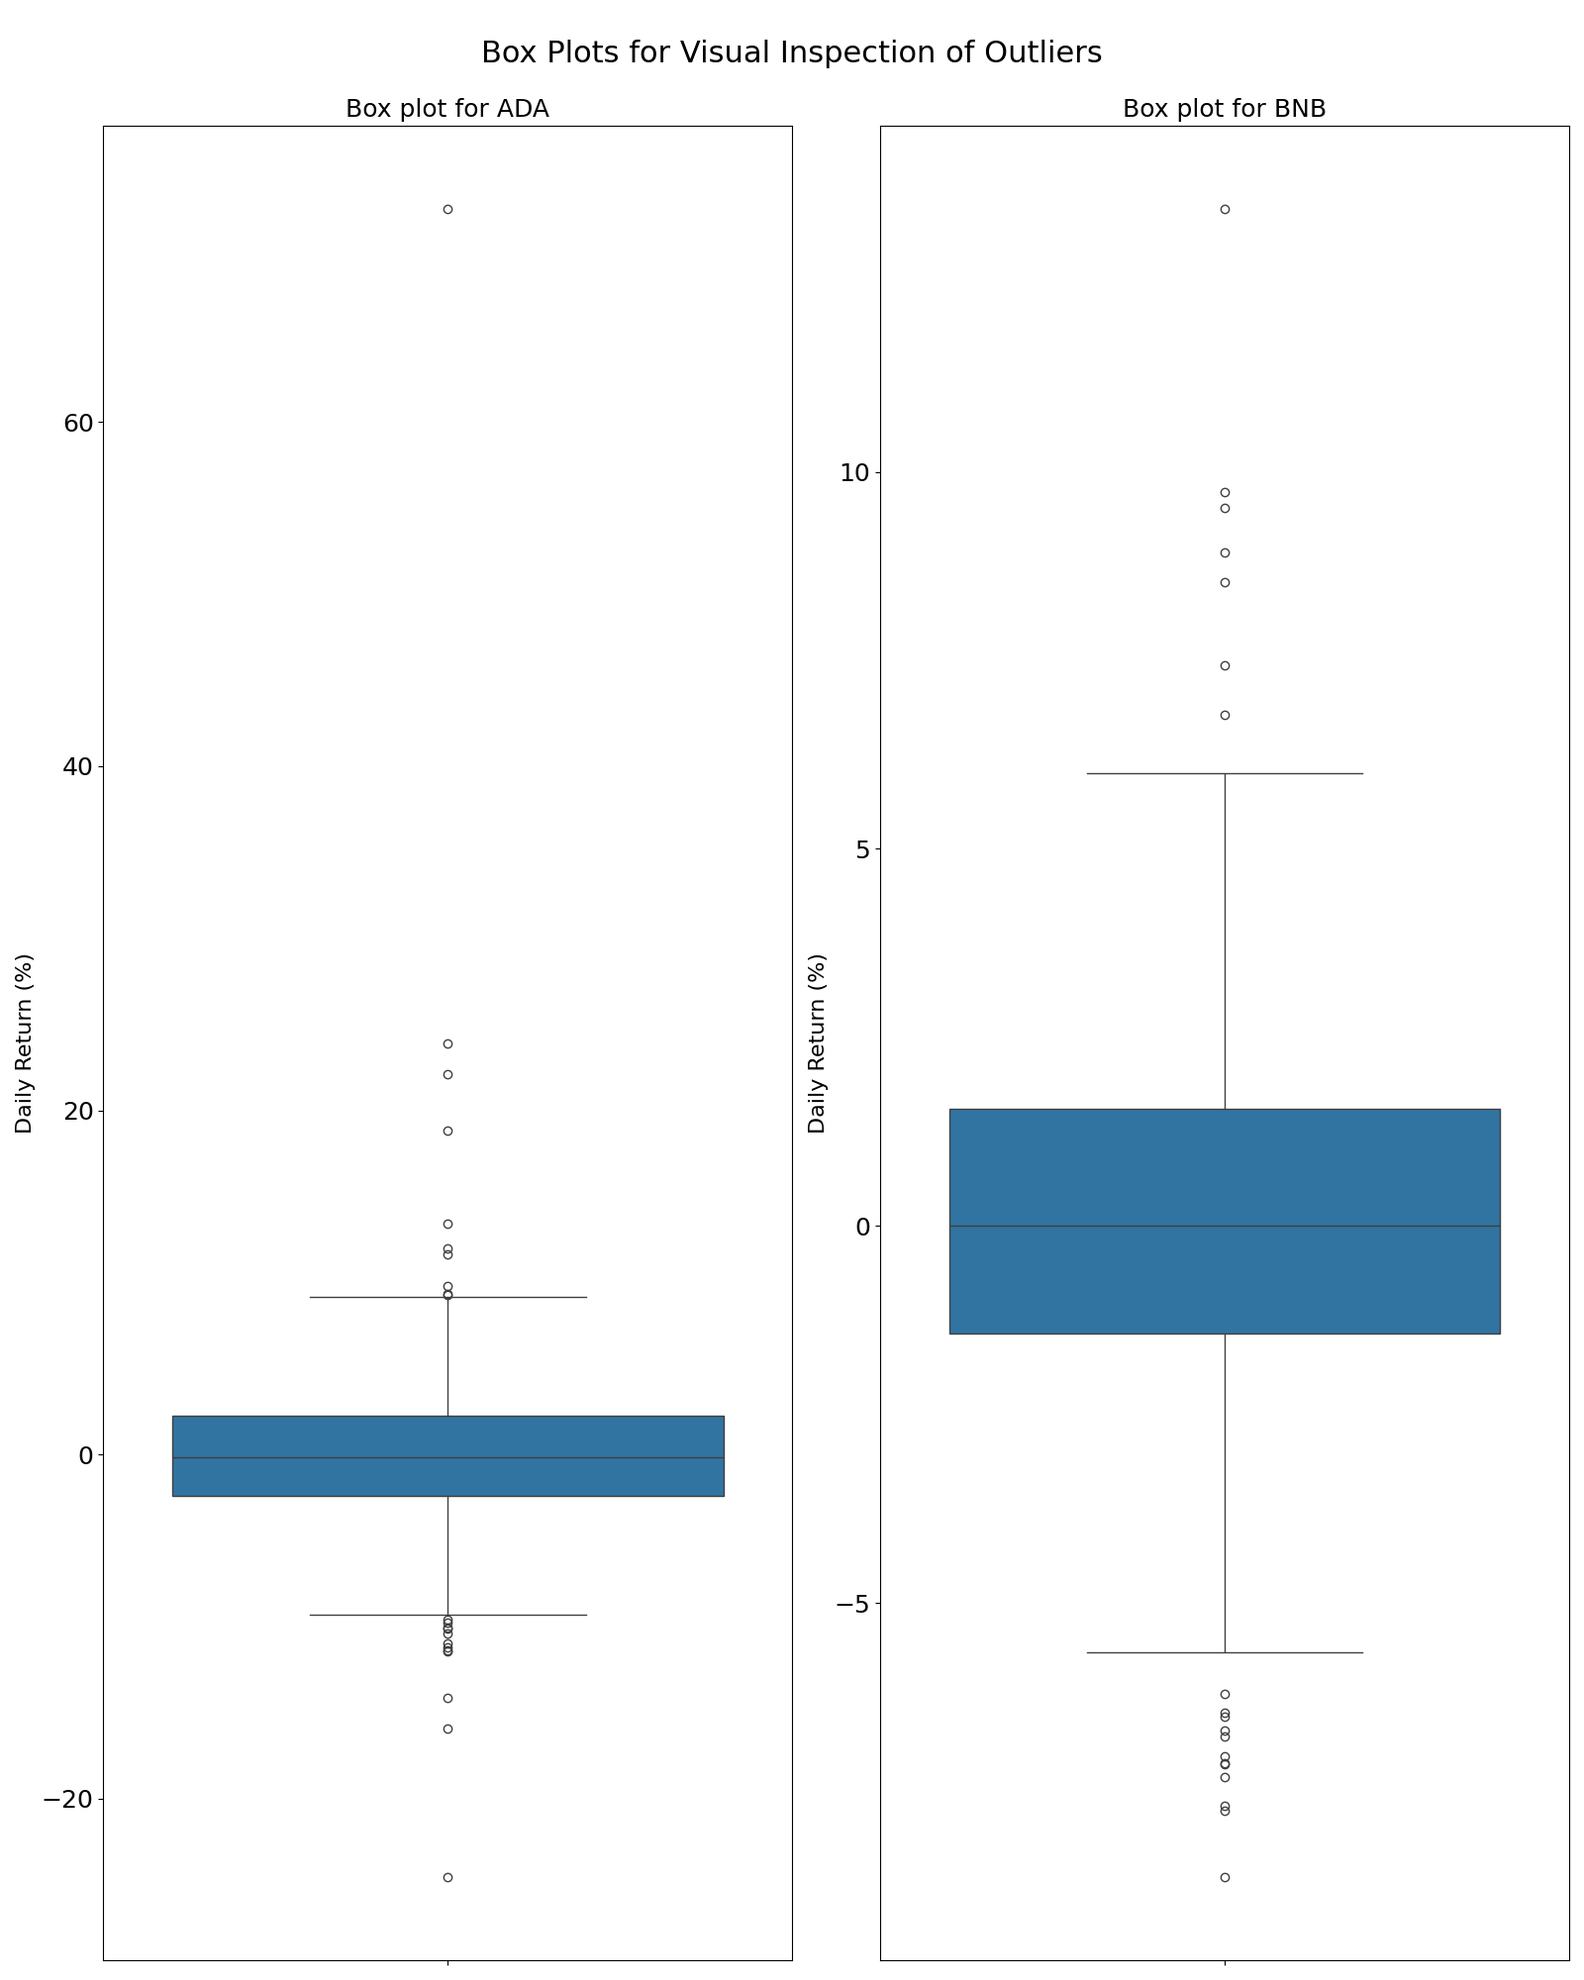
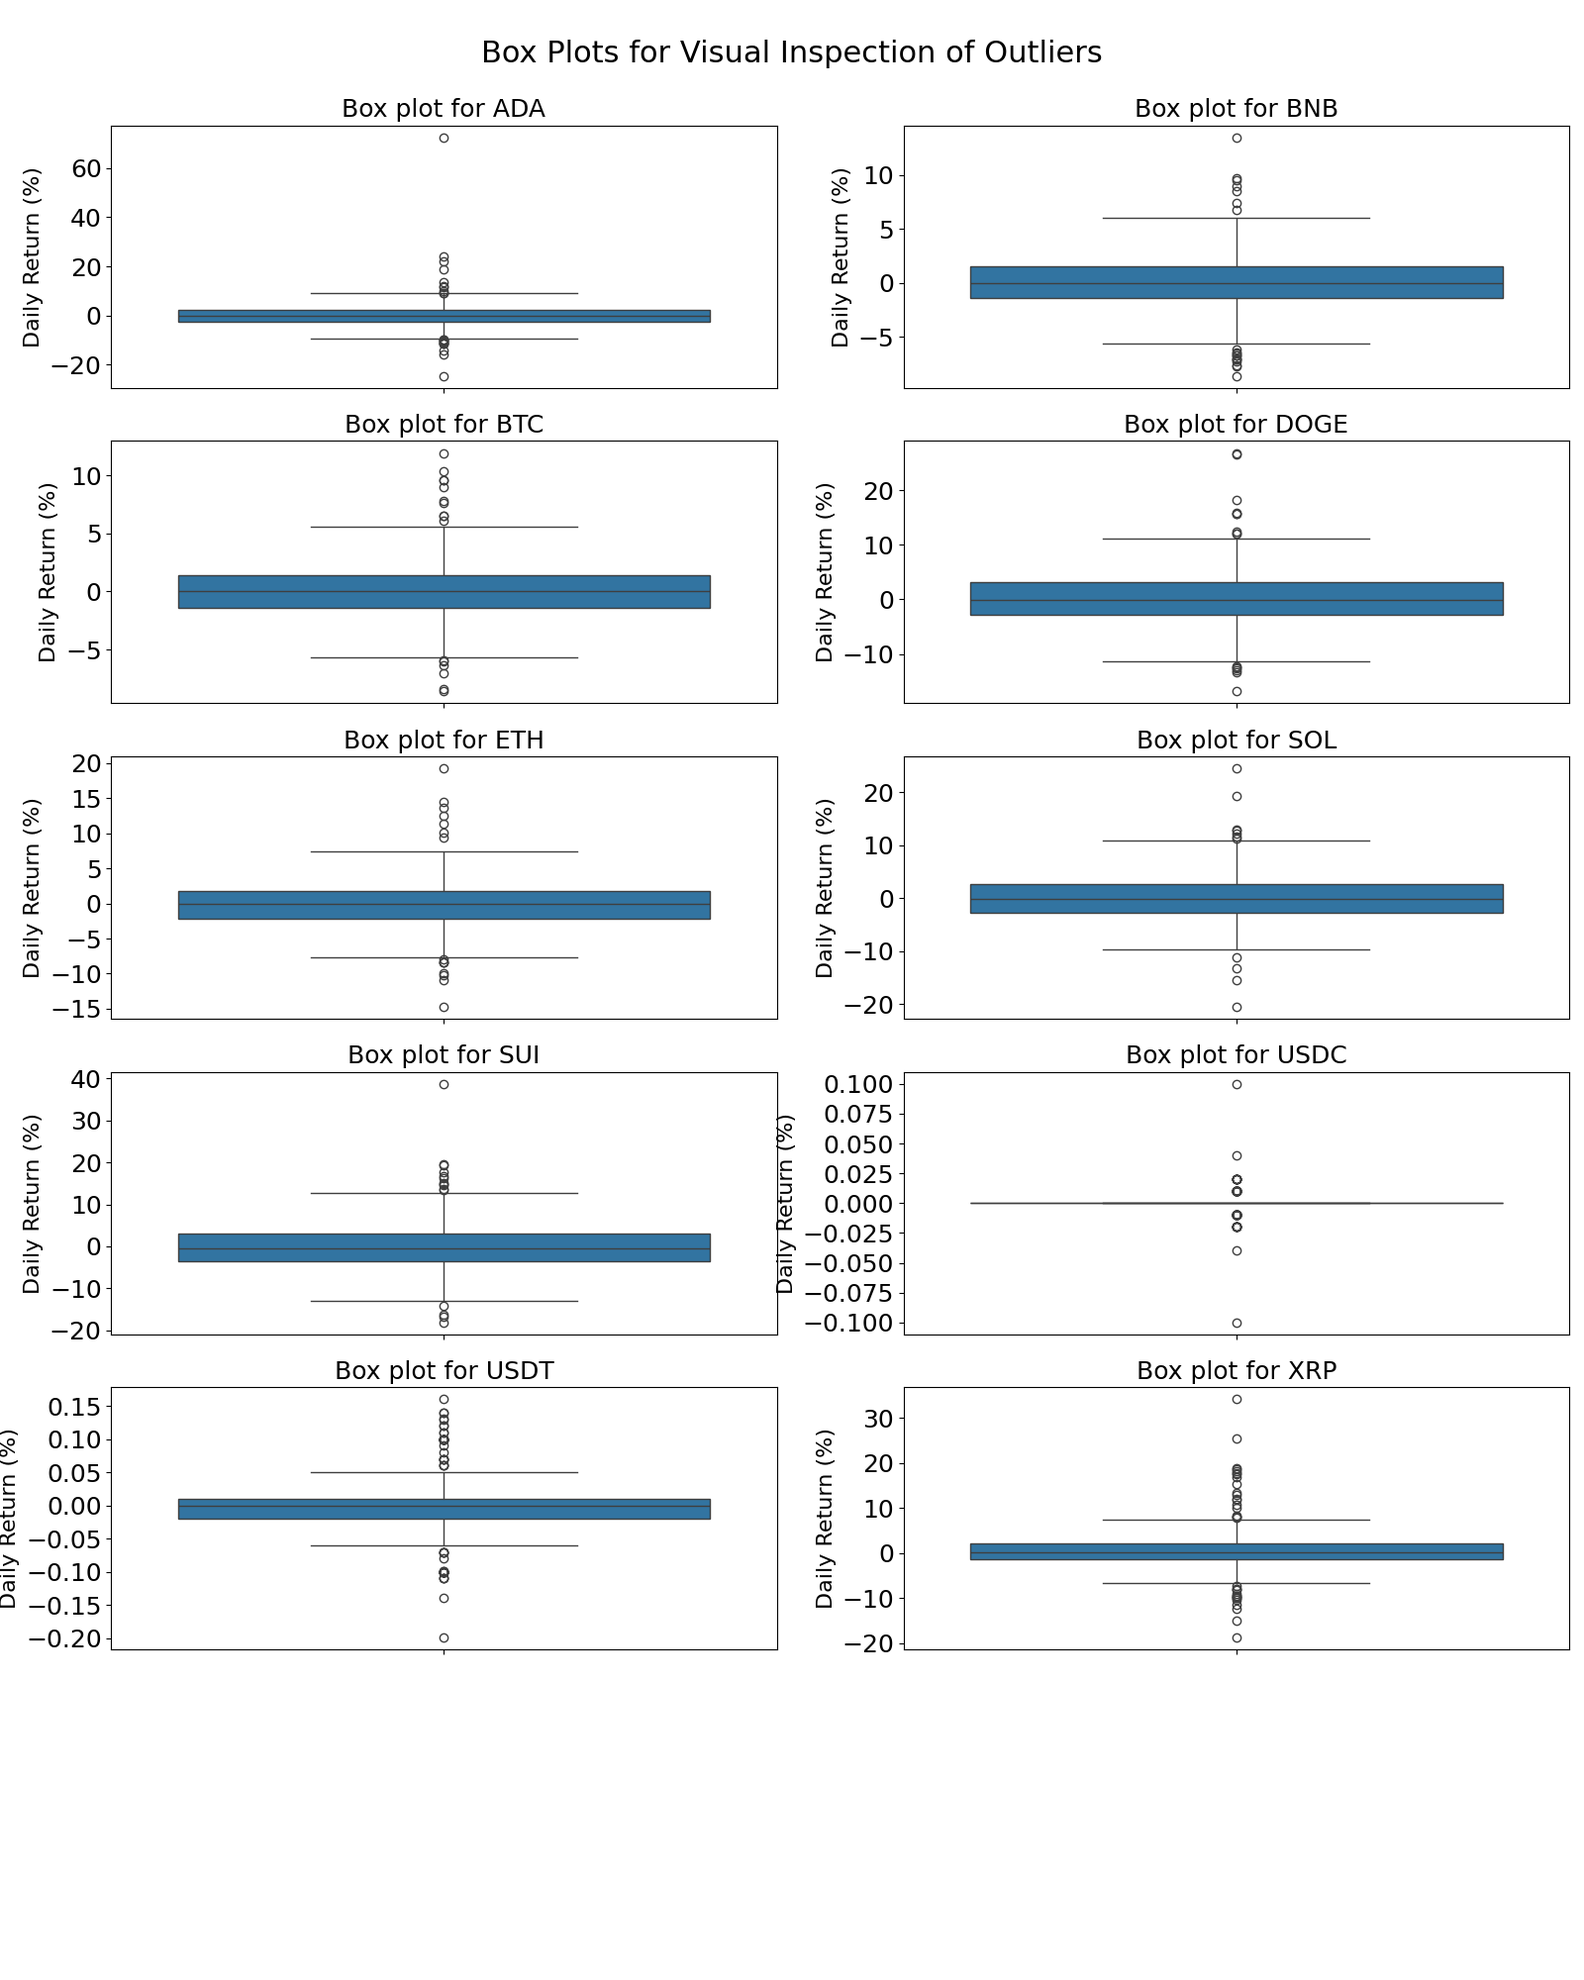
update station2

diff --git a/src/station3_data_modelling.py b/src/station3_data_modelling.py
@@ -1,0 +1,230 @@
+import numpy as np
+import pandas as pd
+import matplotlib.pyplot as plt
+from scipy.optimize import minimize
+import os
+
+df = pd.read_csv(r'/Users/Johnny/Desktop/crypto-portfolio-data-engineering-project/data/station2/stage_2_crypto_data.csv')
+df['date'] = pd.to_datetime(df['date'])
+df = df.set_index(['date'])
+exportpath = r'/Users/Johnny/Desktop/crypto-portfolio-data-engineering-project/data/station3'
+
+# Function to plot the mean-variance efficient frontier
+def Station_3_Model_Design_Basic(returns_data,exportpath, ra = 0.1 ):
+    num_assets = len(returns_data.iloc[1,])
+    # Calculate mean returns and covariance matrix
+    returns_data = returns_data*100
+    mean_returns = (returns_data).mean()
+    cov_matrix = returns_data.cov()  
+
+    # Define function to calculate portfolio performance
+    def portfolio_performance(weights, mean_returns, cov_matrix):
+        returns = np.dot(weights, mean_returns)
+        std = np.sqrt(np.dot(weights.T, np.dot(cov_matrix, weights)))
+        return returns, std
+
+    # Number of portfolios to simulate
+    num_portfolios = 25000
+    results = np.zeros((3, num_portfolios))
+    weights_record = []
+
+    # Run simulations
+    num_assets = len(mean_returns)
+    for i in range(num_portfolios):
+        weights = np.random.random(num_assets)
+        weights /= np.sum(weights)
+        returns, std = portfolio_performance(weights, mean_returns, cov_matrix)
+        results[0, i] = returns
+        results[1, i] = std
+        results[2, i] = results[0, i] / results[1, i]
+        weights_record.append(weights)
+
+    # Convert results array to DataFrame
+    results_frame = pd.DataFrame(results.T, columns=['Return', 'Standard Deviation', 'Sharpe Ratio'])
+
+    # Locate the portfolio with the highest Sharpe ratio
+    max_sharpe_idx = results_frame['Sharpe Ratio'].idxmax()
+    max_sharpe_portfolio = results_frame.loc[max_sharpe_idx]
+    max_sharpe_weights = weights_record[max_sharpe_idx]
+
+    # Locate the portfolio with the minimum standard deviation
+    min_vol_idx = results_frame['Standard Deviation'].idxmin()
+    min_vol_portfolio = results_frame.loc[min_vol_idx]
+    min_vol_weights = weights_record[min_vol_idx]
+    
+    
+    # Ooptim Functions #
+    def mean_variance(weights):
+        portfolio_return = np.dot(weights, mean_returns)
+        portfolio_volatility = np.sqrt(np.dot(weights.T, np.dot(cov_matrix, weights)))
+        return -(portfolio_return / portfolio_volatility)
+    
+    def minimum_variance(weights):
+        portfolio_volatility = np.sqrt(np.dot(weights.T, np.dot(cov_matrix, weights)))
+        return portfolio_volatility
+    
+    def mean_variance_risk_aversion(weights,ra=ra):
+        portfolio_return = np.dot(weights, mean_returns)
+        portfolio_volatility = (np.dot(weights.T, np.dot(cov_matrix, weights)))
+        return - (portfolio_return - ra/2 * portfolio_volatility)
+    
+    # Optional ##############
+    def risk_parity(weights):
+        portfolio_volatility = np.sqrt(np.dot(weights.T, np.dot(cov_matrix, weights)))
+        marginal_risk_contribution = np.dot(cov_matrix, weights) / portfolio_volatility
+        risk_contributions = weights * marginal_risk_contribution
+        risk_target = portfolio_volatility / num_assets
+        return np.sum((risk_contributions - risk_target) ** 2)
+    
+    def max_diversification(weights):
+        individual_volatilities = np.sqrt(np.diag(cov_matrix))
+        weighted_volatility = np.dot(weights, individual_volatilities)
+        portfolio_volatility = np.sqrt(np.dot(weights.T, np.dot(cov_matrix, weights)))
+        diversification_ratio = weighted_volatility / portfolio_volatility
+        return -diversification_ratio
+    #########################
+    
+    # Constraints and bounds
+    constraints = ({'type': 'eq', 'fun': lambda x: np.sum(x) - 1})
+    bounds = tuple((0, 1) for asset in range(num_assets))
+    
+    # Initial guess (equal weights)
+    initial_guess = num_assets * [1. / num_assets,]
+    
+    # Optimize for MVO
+    result = minimize(mean_variance, initial_guess, method='SLSQP', 
+                      bounds=bounds, constraints=constraints)
+    mvo_weights = np.round(result.x,3)
+    
+    rp_mvo, sigma_mvo = portfolio_performance(mvo_weights, mean_returns, cov_matrix)
+    sr_mvo            =  rp_mvo/sigma_mvo
+    
+    # Optimize for MV
+    result = minimize(minimum_variance, initial_guess, method='SLSQP', 
+                      bounds=bounds, constraints=constraints)
+    mv_weights =np.round( result.x , 3)
+    
+    rp_mv, sigma_mv = portfolio_performance(mv_weights, mean_returns, cov_matrix)
+    sr_mv           = rp_mv/sigma_mv
+    
+    # Optimize for MVO 
+    result = minimize(mean_variance_risk_aversion, initial_guess, method='SLSQP', 
+                      bounds=bounds, constraints=constraints)
+    mvrp_weights =np.round( result.x , 3)
+    
+    rp_mvrp, sigma_mvrp = portfolio_performance(mvrp_weights, mean_returns, cov_matrix)
+    sr_mvrp             = rp_mvrp/sigma_mvrp
+    
+    # 1/N portfolio 
+    ew_weights = np.array( [1/num_assets] * num_assets )
+    rp_ew, sigma_ew     = portfolio_performance(ew_weights, mean_returns, cov_matrix)
+    sr_ew               = rp_ew/sigma_ew
+        
+    # Plot the efficient frontier
+    plt.figure(figsize=(10, 6))
+    scatter = plt.scatter(results_frame['Standard Deviation'], results_frame['Return'], c=results_frame['Sharpe Ratio'], cmap='viridis')
+    cbar = plt.colorbar(scatter)
+    cbar.set_label('Sharpe Ratio', fontsize=14)
+    cbar.ax.tick_params(labelsize=14)  # Increase the font size of the color bar ticks
+    plt.scatter(sigma_mvo , rp_mvo  , marker='*', color='#FFA500', s=200, label='Max Sharpe Ratio')
+    plt.scatter(sigma_mv  , rp_mv   , marker='*', color='b', s=200, label='Min Volatility')
+    plt.scatter(sigma_mvrp, rp_mvrp , marker='*', color='g', s=200, label='Mean Variance RA = 0.1')
+    plt.scatter(sigma_ew  , rp_ew   , marker='x', color='r', s=200, label='Equal Weights')
+    plt.title('Mean-Variance Efficient Frontier', fontsize=14)
+    plt.xlabel('Standard Deviation', fontsize=14)
+    plt.ylabel('Return', fontsize=14)
+    plt.legend(loc='upper left', fontsize=14)
+    plt.xticks(fontsize=14)
+    plt.yticks(fontsize=14)
+    
+    # Save the figure
+    filename = 'mean_variance_efficient_frontier.png'
+    plt.savefig(os.path.join(exportpath, filename))   
+    plt.show()
+    
+    # Output weights for the different portfolios #
+    weights = pd.DataFrame({
+        'MSR Weights':  mvo_weights,
+        'MV Weights':   mv_weights,
+        'MVRA Weights': mvrp_weights,
+        'EW Weights'  : ew_weights
+    }, index = df.columns)
+    
+    weights.index.rename('Stocks',inplace=True)
+    weights = weights.reset_index()
+    
+    # Plot optimal weights #
+    fig, ax = plt.subplots(figsize=(10, 6))
+    bar_width = 0.2  # Adjust bar width to fit four bars comfortably
+    index = range(len(weights['Stocks']))
+
+    # Create bars for each set of weights
+    bar1 = plt.bar(index, weights['MSR Weights'], bar_width, label='MSR Weights')
+    bar2 = plt.bar([i + bar_width for i in index], weights['MV Weights'], bar_width, label='MV Weights')
+    bar3 = plt.bar([i + bar_width * 2 for i in index], weights['MVRA Weights'], bar_width, label='MVRA Weights')
+    bar4 = plt.bar([i + bar_width * 3 for i in index], weights['EW Weights'], bar_width, label='EW Weights')
+
+    # Adding titles and labels
+    plt.xlabel('Stocks', fontsize=14)
+    plt.ylabel('Weights', fontsize=14)
+    plt.title('Optimal Portfolio Weights Comparison', fontsize=15)
+    plt.xticks([i + bar_width * 1.5 for i in index], weights['Stocks'], fontsize=14)
+    plt.yticks(fontsize=14)
+
+    # Adding a legend
+    plt.legend(loc='upper left', fontsize=14)
+
+    # Save the figure
+    filename = 'optimal_weights.png'
+    plt.savefig(os.path.join(exportpath, filename))   
+    plt.show()
+    
+    # Compute optimal portfolio returns #
+    weights = weights.set_index('Stocks')
+    portfolio_returns = (returns_data @ weights)/100 # decimal format
+
+    # Rename columns to reflect the portfolio strategies
+    portfolio_returns.columns = ['MSR Portfolio', 'MV Portfolio', 'MVRA Portfolio','EW Portfolio']
+
+    # Calculate cumulative returns
+    cumulative_returns = (1 + portfolio_returns).cumprod() - 1
+    
+    # Plot cumulative returns over time
+    plt.figure(figsize=(10, 8))
+    for column in cumulative_returns.columns:
+        plt.plot(cumulative_returns.index, cumulative_returns[column], label=column)
+    
+    # Customize the plot
+    plt.title('Cumulative Optimal Portfolio Returns Over Time', fontsize=16)
+    plt.xlabel('Date', fontsize=14)
+    plt.ylabel('Cumulative Return', fontsize=14)
+    plt.legend(title='Stock', fontsize=14, title_fontsize=14)
+    plt.xticks(rotation=45, fontsize=14)
+    plt.yticks(fontsize=14)
+    plt.tight_layout()
+    
+    # Save the figure
+    filename = 'cumulative_optimal_portfolio_return.png'
+    plt.savefig(os.path.join(exportpath, filename))   
+    plt.show()
+    
+    # Descriptive statistics of the portfolios #
+    descriptive_stats = (portfolio_returns*100).describe().transpose().round(3)
+    descriptive_stats['Sharpe'] = (descriptive_stats['mean']/descriptive_stats['std']).round(3)
+    
+    cols = list(descriptive_stats.columns)
+    sharpe_col = cols.pop(cols.index('Sharpe'))
+    cols.insert(3, sharpe_col)
+    descriptive_stats =  descriptive_stats[cols]
+    
+    # Export descriptive statistics #
+    descriptive_stats.to_csv(os.path.join(exportpath, 'optimal_descriptive_statistics.csv'))
+    # Export Weights #
+    weights.to_csv(os.path.join(exportpath, 'optimal_weights.csv'))
+      
+    return list([weights, portfolio_returns, descriptive_stats])
+        
+##################### Execute the function #####################
+Station3_output = Station_3_Model_Design_Basic(df,exportpath, ra = 0.1 )
+###########################################################
+########################### END ###########################

diff --git a/src/station2_feature_engineering.py b/src/station2_feature_engineering.py
@@ -8,13 +8,12 @@ import statsmodels.api as sm
 import os
 from scipy.cluster.hierarchy import dendrogram, linkage
 
-# Inputs #
+# Inputs and export #
 filepath   = r'/Users/Johnny/Desktop/crypto-portfolio-data-engineering-project/data/station1/stage_1_crypto_data.csv'
 exportpath = r'/Users/Johnny/Desktop/crypto-portfolio-data-engineering-project/data/station2'
 
 def Station2_featureEngineering(filepath, exportpath, gen_plots=False):
-    
-    # Step 1: Read in the data
+    # Step 1: Read the data
     df = pd.read_csv(filepath)
     
     # 0 NaN checker #
@@ -54,12 +53,13 @@ def Station2_featureEngineering(filepath, exportpath, gen_plots=False):
         normality_tests = {}
         for stock in df.columns:  # Skip the date column
             stat, p_value = shapiro(df[stock])
-            normality_tests[stock] = {'Shapiro-Wilk Statistic': np.round(stat,3),
-                                      'p-value': np.round(p_value,3)}
+            normality_tests[stock] = {'Shapiro-Wilk Statistic': np.round(stat,3), 'p-value': np.round(p_value,3)}
             
         normality_tests = pd.DataFrame(normality_tests)
-    
-        # Outliers #
+
+        '''
+        # Plot for Outliers #
+        '''
         # Function to identify outliers using the IQR method
         def identify_outliers(df, column):
             Q1 = df[column].quantile(0.25)
@@ -75,8 +75,8 @@ def Station2_featureEngineering(filepath, exportpath, gen_plots=False):
         # Generate box plots for visual inspection of outliers
         plt.figure(figsize=(16, 20))
         
-        for i, stock in enumerate(df.columns[:2], 1):
-            plt.subplot(1, 2, i)
+        for i, stock in enumerate(df.columns, 1):
+            plt.subplot(len(df.columns) // 2 + 1, 2, i)
             sns.boxplot(y=df[stock]*100)
             plt.title(f'Box plot for {stock}', fontsize=18)
             plt.ylabel('Daily Return (%)', fontsize=16)
@@ -93,8 +93,10 @@ def Station2_featureEngineering(filepath, exportpath, gen_plots=False):
         outliers_summary = {stock: len(outliers[stock]) for stock in outliers}
         
         outliers_summary_df = pd.DataFrame.from_dict(outliers_summary, orient='index', columns=['Number of Outliers'])
-          
-        # Correlation Analyses
+
+        """
+        # Correlation Analyses #
+        """  
         correlation_matrix = df.corr()   
         # Plot the heatmap of the correlation matrix
         plt.figure(figsize=(12, 8))
@@ -111,8 +113,10 @@ def Station2_featureEngineering(filepath, exportpath, gen_plots=False):
         filename = 'correlation.png'
         plt.savefig(os.path.join(exportpath, filename))   
         plt.show()
-                    
-        # Clustering    
+
+        """
+        # Clustering 
+        """            
         # Compute the distance matrix using 1 - correlation
         distance_matrix = 1 - correlation_matrix
         
@@ -135,10 +139,12 @@ def Station2_featureEngineering(filepath, exportpath, gen_plots=False):
         plt.savefig(os.path.join(exportpath, filename))   
         plt.show()
         
-        # Time-series statistics
+        """
+        # Time-series statistics #
+        """
         plt.figure(figsize=(16, 20))
-        for i, stock in enumerate(df.columns[:6], 1):
-            plt.subplot(3, 2, i)
+        for i, stock in enumerate(df.columns, 1):
+            plt.subplot(len(df.columns) // 2 + 1, 2, i)
             plt.plot(df.index, df[stock])
             plt.title(f'Time Series for {stock}', fontsize=14)
             plt.xlabel('Date', fontsize=14)
@@ -150,7 +156,7 @@ def Station2_featureEngineering(filepath, exportpath, gen_plots=False):
         filename = 'time_series.png'
         plt.savefig(os.path.join(exportpath, filename))   
         plt.show()
-    
+        
         # Calculate rolling mean and standard deviation (window of 12 months)
         rolling_stats = {}
         for stock in df.columns:
@@ -158,8 +164,8 @@ def Station2_featureEngineering(filepath, exportpath, gen_plots=False):
         
         # Plot rolling mean and standard deviation for each stock
         plt.figure(figsize=(16, 20))
-        for i, stock in enumerate(df.columns[:6], 1):
-            plt.subplot(3, 2, i)
+        for i, stock in enumerate(df.columns, 1):
+            plt.subplot(len(df.columns) // 2 + 1, 2, i)
             plt.plot(df.index, rolling_stats[stock]['mean'], label='Rolling Mean')
             plt.plot(df.index, rolling_stats[stock]['std'], label='Rolling Std')
             plt.title(f'Rolling Statistics for {stock}', fontsize=14)
@@ -173,7 +179,8 @@ def Station2_featureEngineering(filepath, exportpath, gen_plots=False):
         filename = 'time_series_rolling.png'
         plt.savefig(os.path.join(exportpath, filename))   
         plt.show()
-    
+
+
         # Recalculate the risk-adjusted metrics with date as the index
         # Assuming a risk-free rate of 0.02% per day
         risk_free_rate = 0.0000
@@ -206,7 +213,7 @@ def Station2_featureEngineering(filepath, exportpath, gen_plots=False):
         })
         
         # Set up the plotting environment
-        sns.set(style="whitegrid")
+        sns.set_theme(style="whitegrid")
         
         # Create a DataFrame for the Sharpe and Sortino Ratios
         ratio_data = risk_adjusted_metrics[['Sharpe Ratio (Annual)', 'Sortino Ratio (Annual)']].reset_index()
